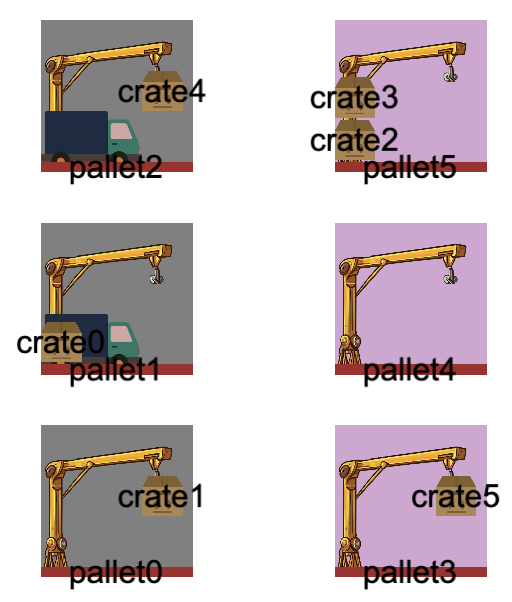
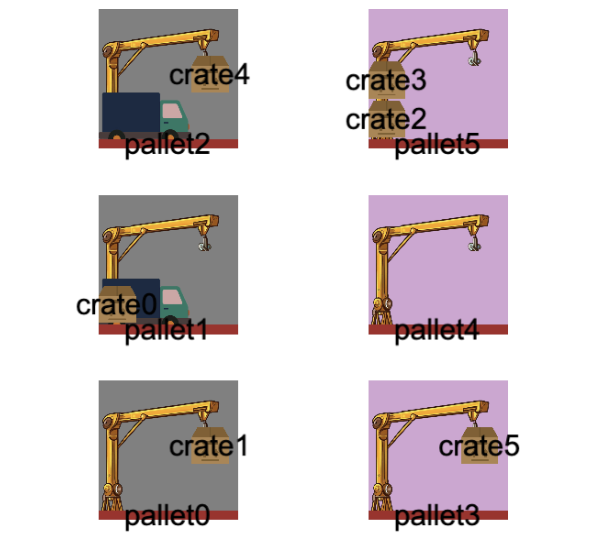
Styled the thumbnail captions

diff --git a/assets/stylesheets/gallery-style.css b/assets/stylesheets/gallery-style.css
@@ -2,7 +2,7 @@
     display: grid;
     grid-template-columns: 50% 50%;
     grid-template-rows: repeat(7, 20vw);
-    grid-gap: 15px;
+    grid-row-gap: 20px;
     margin-top: 30px;
     margin-bottom: 30px;
 }
@@ -38,8 +38,9 @@ div.gallery-item:hover {
 
 .caption {
     display: block;
-    font-weight: 500;
-    font-size: larger;
+    font-weight: 700;
+    font-size: 1.5rem;
+    color: black;
 }
 
 div.domain-desc {
